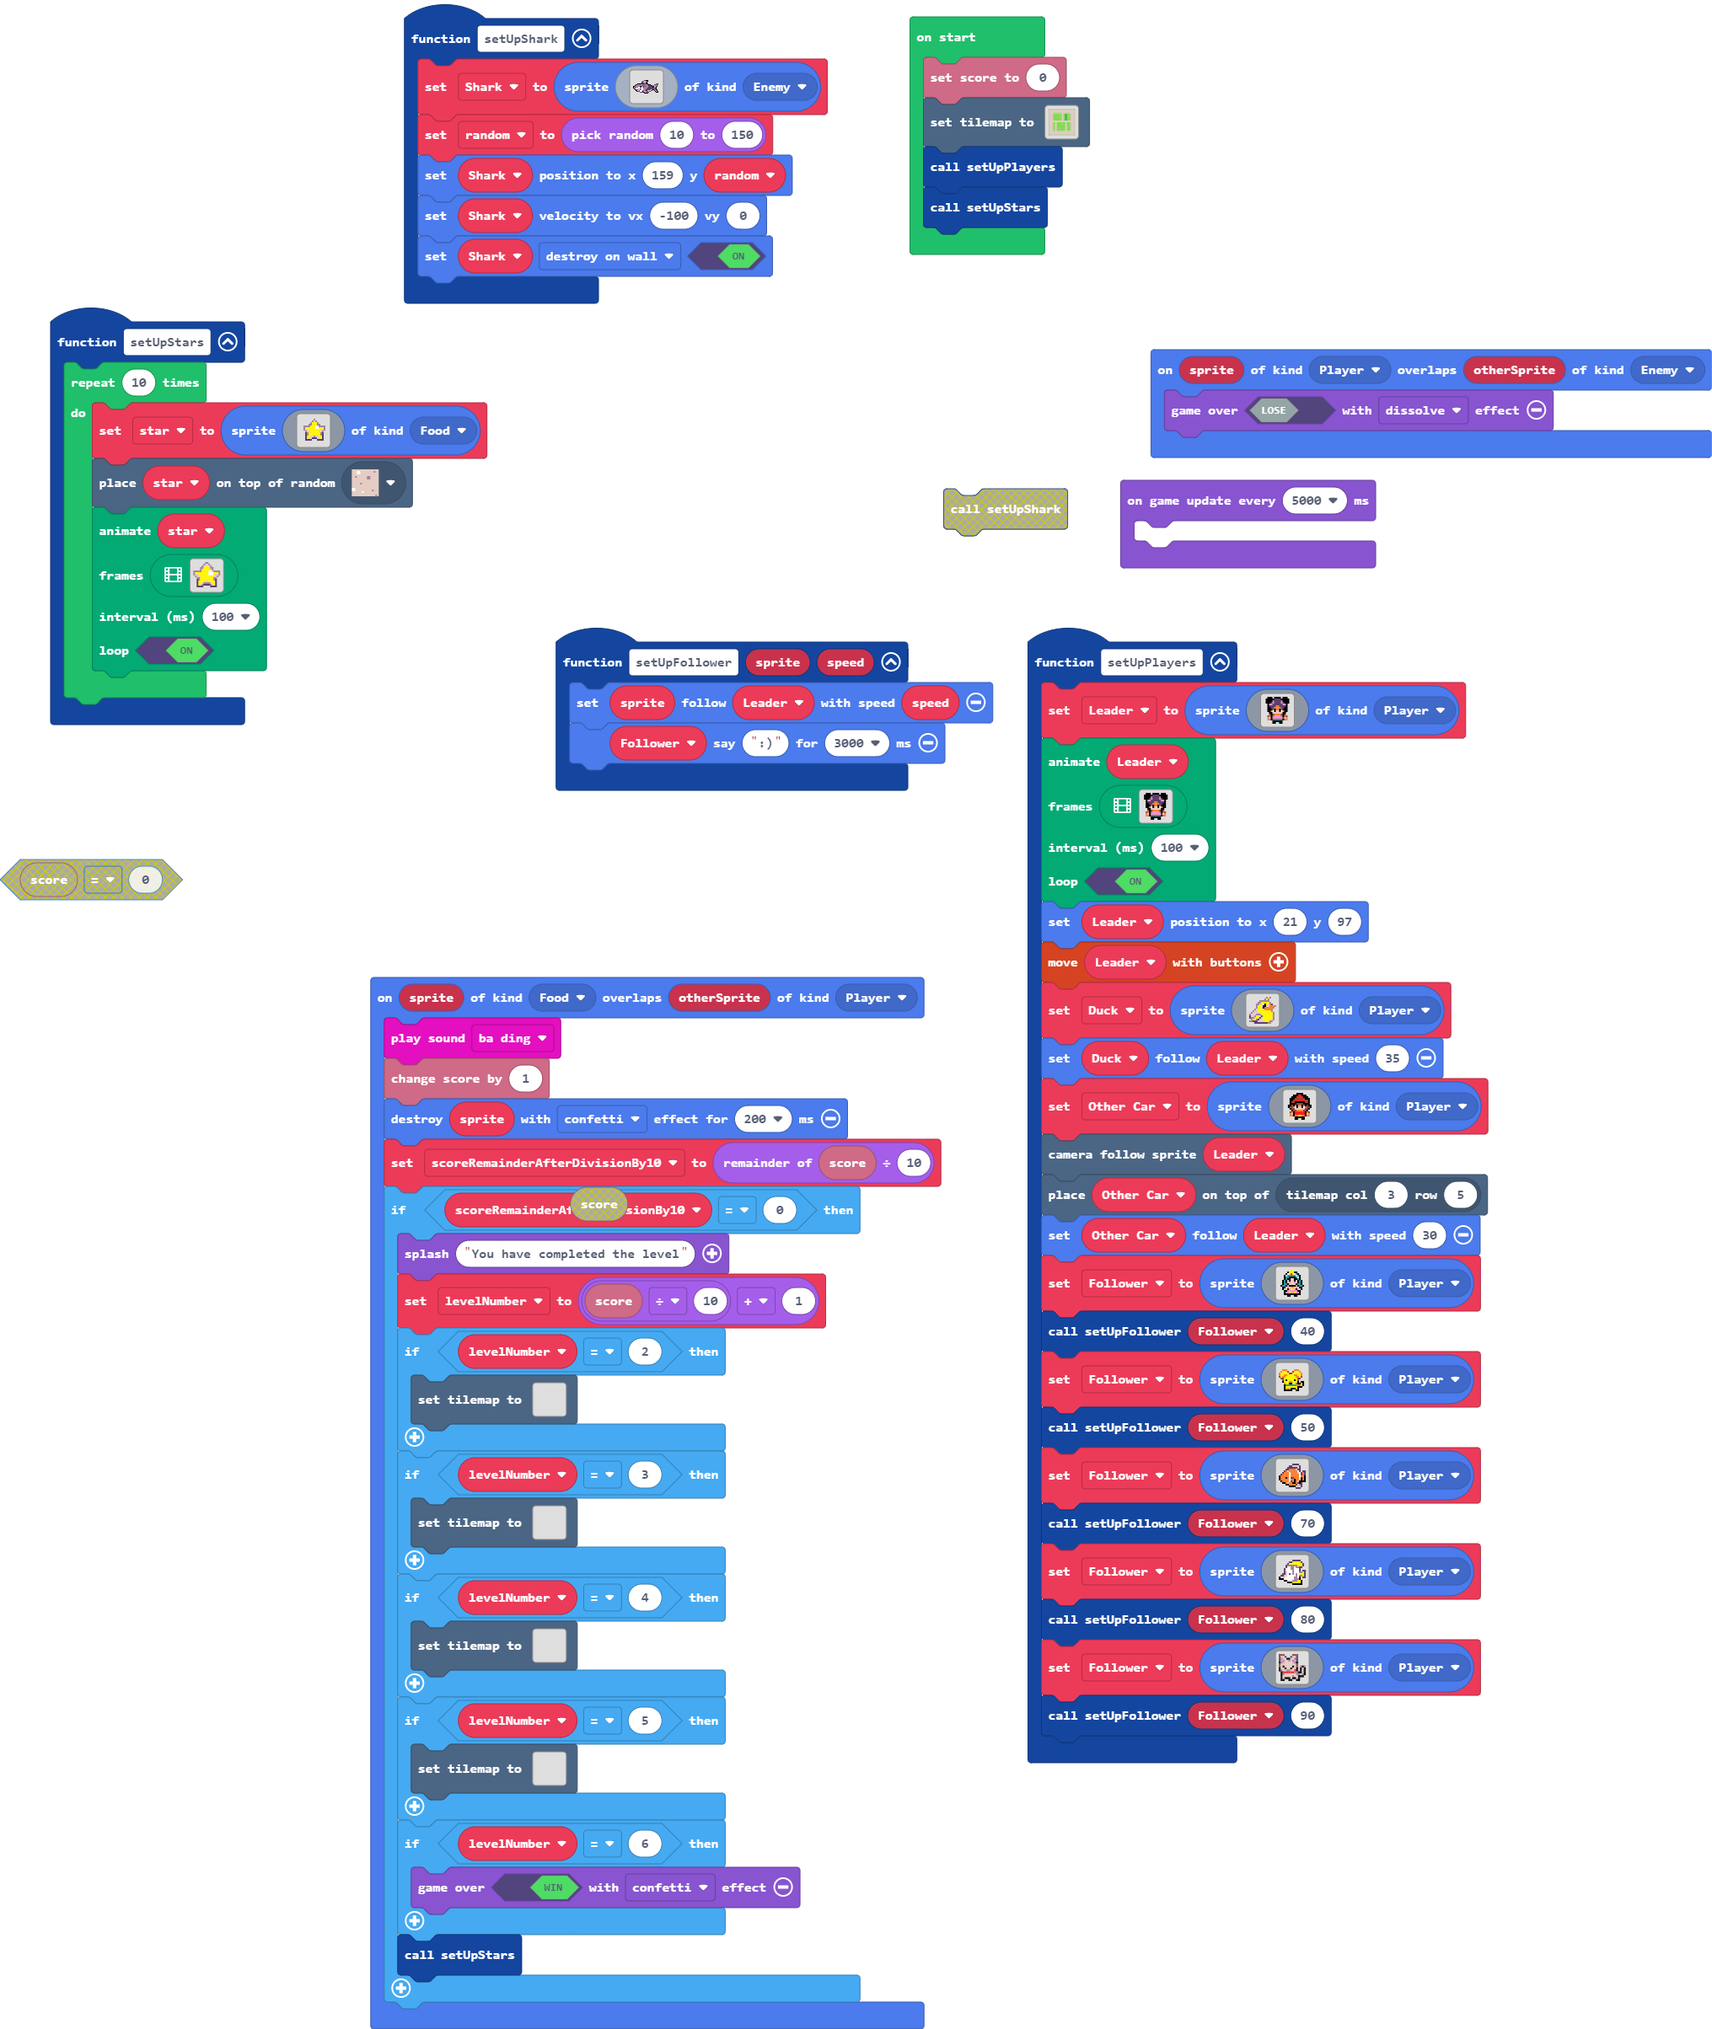
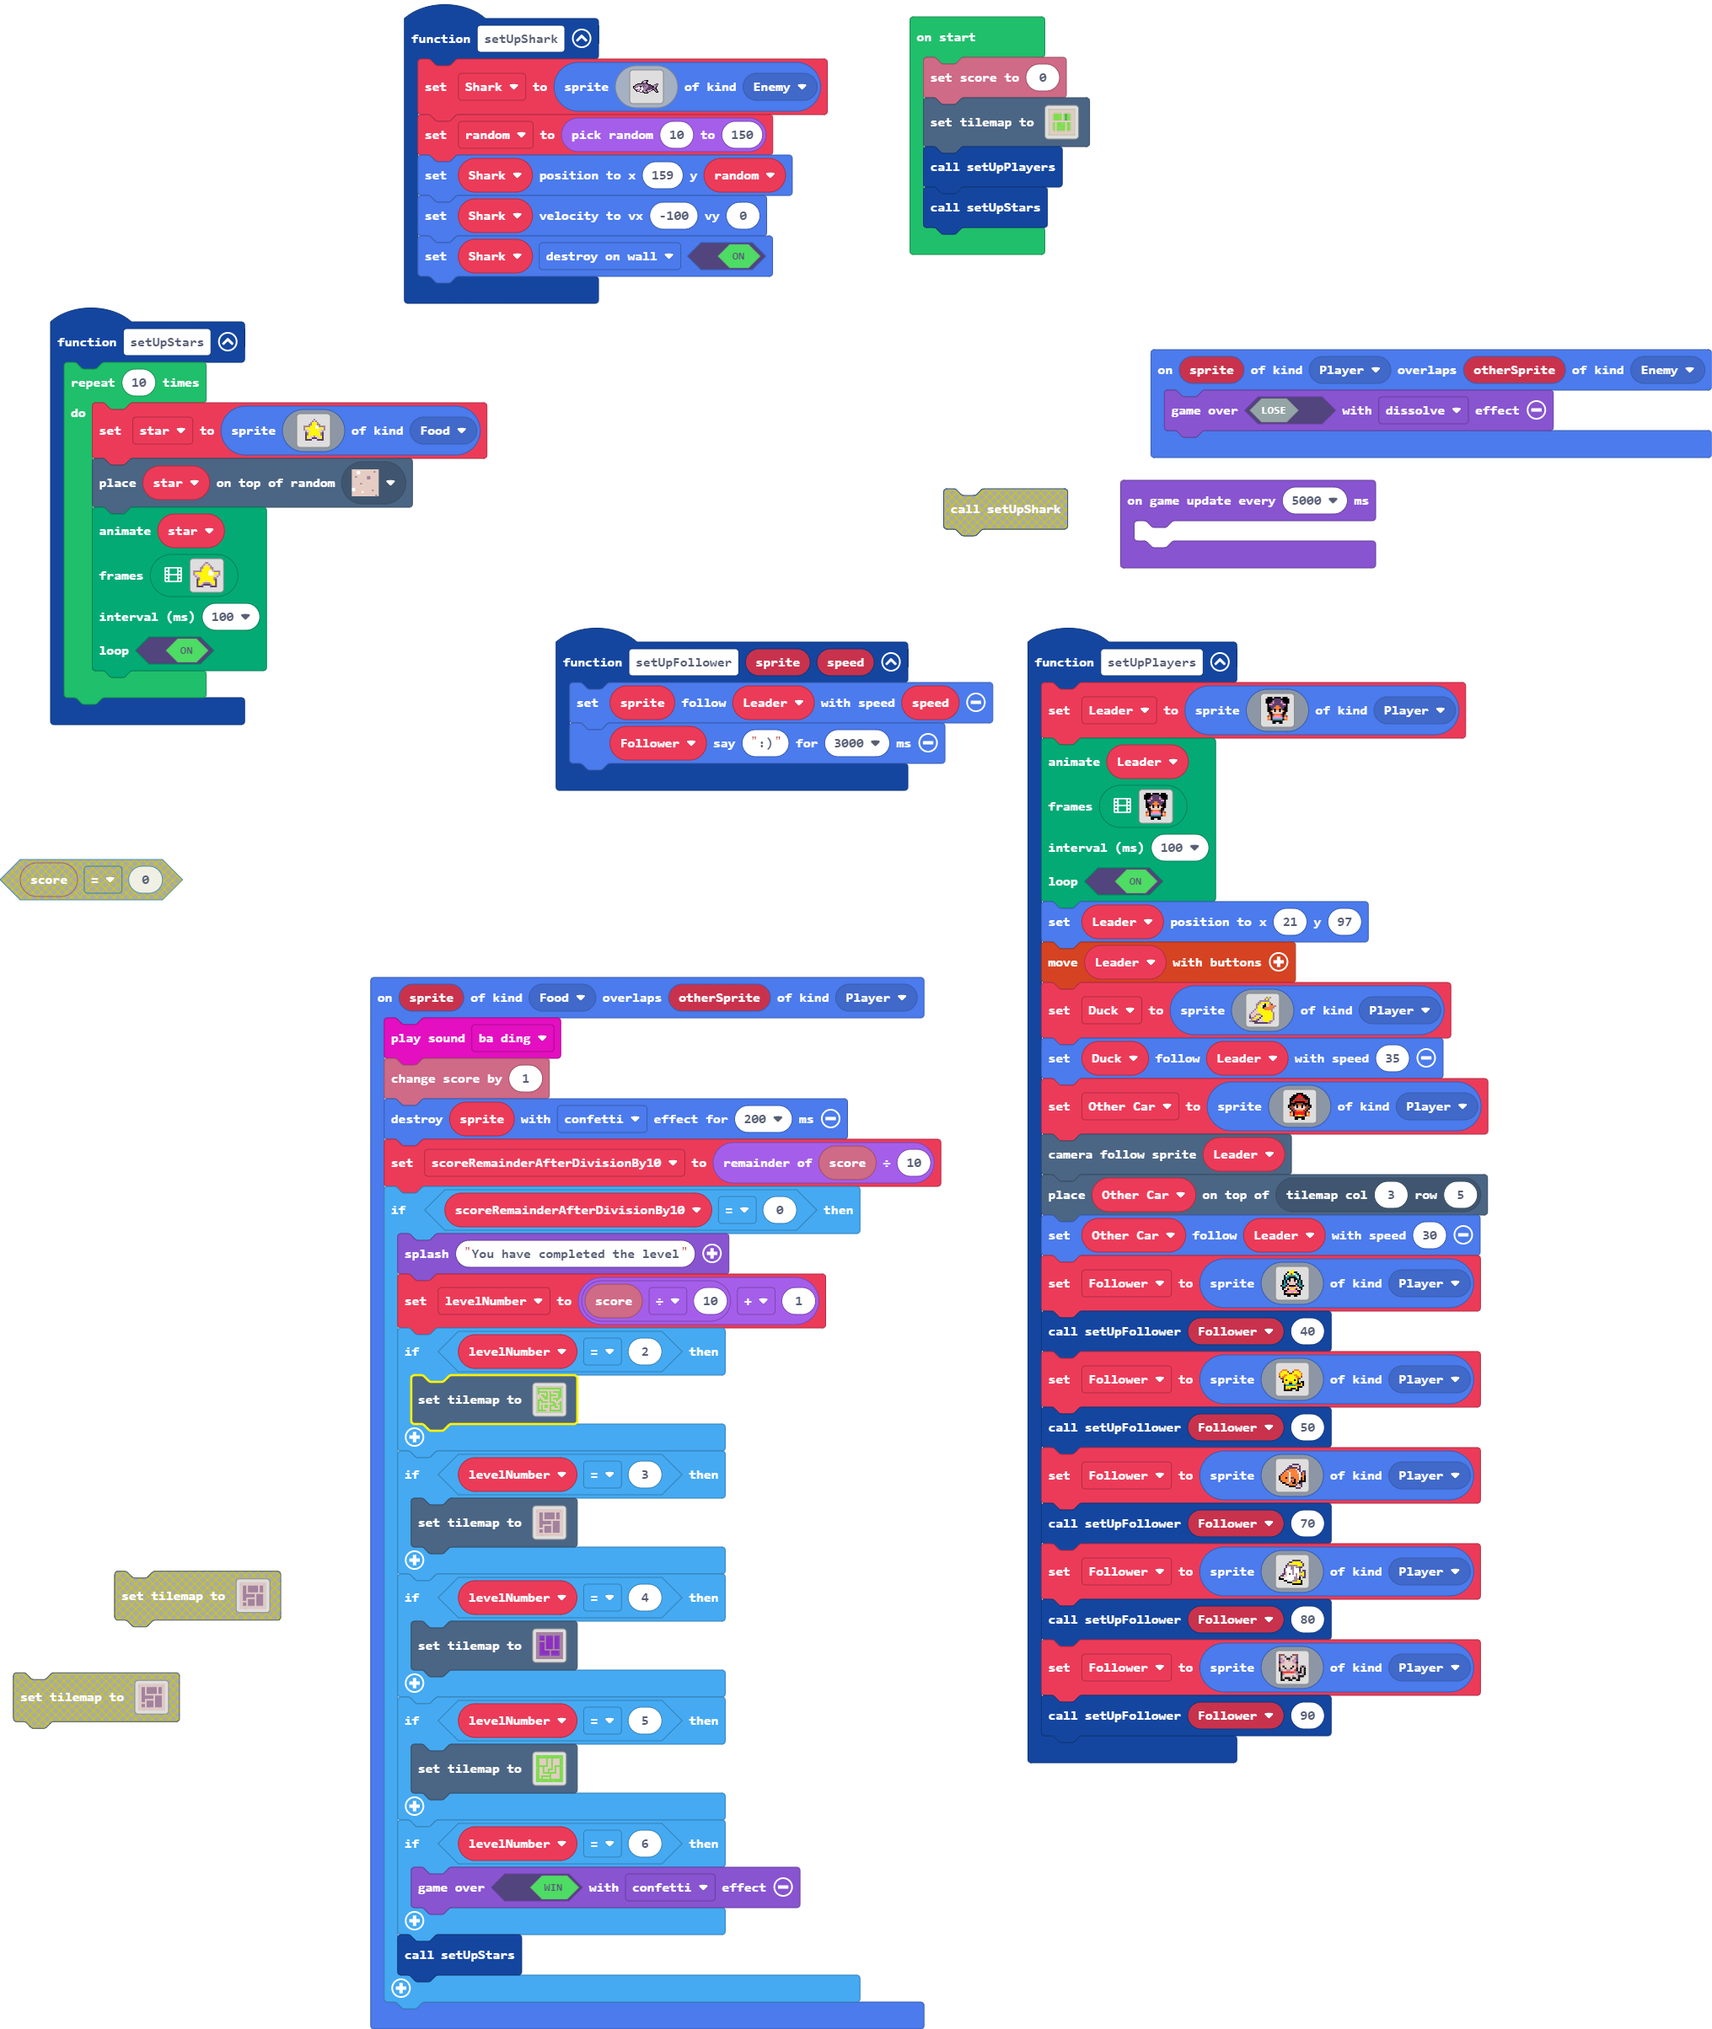
Update main.blocks, main.ts, tilemap.g.jres, tilemap.g.ts

diff --git a/tilemap.g.ts b/tilemap.g.ts
@@ -216,25 +216,6 @@ namespace myTiles {
 . . . . . . . . . . . . . . . . 
 . . . . . . . . . . . . . . . . 
 `, [myTiles.transparency16], TileScale.Sixteen);
-            case "level8":
[1 lines of base64/hex data omitted]
-. . . . . . . . . . . . . . . . 
-. 2 . 2 2 2 2 . 2 2 2 . 2 . 2 . 
-. 2 . 2 2 2 2 . 2 2 2 . 2 . 2 . 
-. 2 . 2 2 2 2 . 2 2 2 . 2 . . . 
-. 2 . . . . . . 2 2 2 . 2 2 2 . 
-. 2 . 2 2 . 2 2 2 2 2 . 2 2 2 . 
-. . . 2 2 . 2 2 2 2 2 . . . . . 
-. 2 2 2 2 . 2 2 2 2 2 2 2 2 2 . 
-. 2 2 2 2 . 2 2 . 2 2 2 2 2 2 . 
-. 2 2 2 2 . . . . 2 2 2 2 2 2 . 
-. . . . . . 2 2 . 2 2 2 2 2 2 . 
-. 2 2 . 2 2 2 2 . 2 2 2 2 2 2 . 
-. 2 2 . 2 2 2 2 . 2 2 2 2 2 2 . 
-. 2 2 . 2 2 2 2 . 2 2 2 2 2 2 . 
-. 2 2 . 2 2 2 2 . 2 2 2 2 2 2 . 
-. . . . . . . . . . . . . . . . 
-`, [myTiles.transparency16,sprites.dungeon.darkGroundNorthWest0,sprites.dungeon.darkGroundWest,sprites.dungeon.darkGroundSouthWest0,sprites.dungeon.darkGroundSouth,sprites.dungeon.darkGroundSouthEast0,sprites.dungeon.darkGroundEast,sprites.dungeon.darkGroundNorthEast0,sprites.dungeon.darkGroundNorth,sprites.dungeon.darkGroundCenter,sprites.dungeon.collectibleInsignia], TileScale.Sixteen);
             case "level9":
             case "level9":return tiles.createTilemap(hex`1000100000000000000000000000000000000000000000000000000000000000000000000000000000000000000000000000000000000000000000000000000000000000000000000000000000000000000000000000000000000000000000000000000000000000000000000000000000000000000000000000000000000000000000000000000000000000000000000000000000000000000000000000000000000000000000000000000000000000000000000000000000000000000000000000000000000000000000000000000000000000000000000000000000000000000000000000000000000000000000000000000000000000000000000000000000000000`, img`
 . . . . . . . . . . . . . . . . 
@@ -330,25 +311,6 @@ namespace myTiles {
 . . . . . . . . . . . . . . . . 
 . . . . . . . . . . . . . . . . 
 `, [myTiles.transparency16], TileScale.Sixteen);
-            case "level4":
-            case "level4":return tiles.createTilemap(hex`1000100003030303030303020202020202020202020202020202020202020202020202020202010102020106010201010102020202020301020201010102030301020202020203060202010101020101010202020202030102020202020201060102020202020101020101010102010101020202020201010201030301020101010202020202010102010303010201020202020202020202020202020202010201020202020201010101010201010102010202020202010303030102010101020202020202020103030101020101010101020202020202020202020202020202020202020202020202020202020202020202020202020202020202020202020202020202`, img`
-. . . . . . . . . . . . . . . . 
-. . . . . . . . . . . . . . . . 
-. . 2 2 . . 2 2 2 . 2 2 2 . . . 
-. . . 2 . . 2 2 2 . . . 2 . . . 
-. . . 2 . . 2 2 2 . 2 2 2 . . . 
-. . . 2 . . . . . . 2 2 2 . . . 
-. . 2 2 . 2 2 2 2 . 2 2 2 . . . 
-. . 2 2 . 2 . . 2 . 2 2 2 . . . 
-. . 2 2 . 2 . . 2 . 2 . . . . . 
-. . . . . . . . . . 2 . 2 . . . 
-. . 2 2 2 2 2 . 2 2 2 . 2 . . . 
-. . 2 . . . 2 . 2 2 2 . . . . . 
-. . 2 . . 2 2 . 2 2 2 2 2 . . . 
-. . . . . . . . . . . . . . . . 
-. . . . . . . . . . . . . . . . 
-. . . . . . . . . . . . . . . . 
-`, [myTiles.transparency16,sprites.builtin.brick,sprites.castle.tileDarkGrass3,sprites.castle.tileDarkGrass1,myTiles.tile4,myTiles.tile5,sprites.builtin.forestTiles16], TileScale.Sixteen);
             case "level14":
             case "level14":return tiles.createTilemap(hex`1000100000000000000000000000000000000000000000000000000000000000000000000000000000000000000000000000000000000000000000000000000000000000000000000000000000000000000000000000000000000000000000000000000000000000000000000000000000000000000000000000000000000000000000000000000000000000000000000000000000000000000000000000000000000000000000000000000000000000000000000000000000000000000000000000000000000000000000000000000000000000000000000000000000000000000000000000000000000000000000000000000000000000000000000000000000000000`, img`
 . . . . . . . . . . . . . . . . 
@@ -389,25 +351,6 @@ namespace myTiles {
 `, [myTiles.transparency16,sprites.castle.tileGrass2,sprites.castle.tilePath1,sprites.castle.tilePath7,sprites.castle.tilePath9,sprites.castle.tilePath3,sprites.castle.tilePath2,sprites.castle.tilePath4,sprites.castle.tilePath5,sprites.castle.tilePath8,sprites.castle.tilePath6,sprites.castle.tileGrass3,sprites.castle.tileGrass1,sprites.builtin.forestTiles0], TileScale.Sixteen);
             case "level15":
             case "level15":return tiles.createTilemap(hex`1000100000000000000000000000000000000000000000000000000000000000000000000000000000000000000000000000000000000000000000000000000000000000000000000000000000000000000000000000000000000000000000000000000000000000000000000000000000000000000000000000000000000000000000000000000000000000000000000000000000000000000000000000000000000000000000000000000000000000000000000000000000000000000000000000000000000000000000000000000000000000000000000000000000000000000000000000000000000000000000000000000000000000000000000000000000000000`, img`
-. . . . . . . . . . . . . . . . 
-. . . . . . . . . . . . . . . . 
-. . . . . . . . . . . . . . . . 
-. . . . . . . . . . . . . . . . 
-. . . . . . . . . . . . . . . . 
-. . . . . . . . . . . . . . . . 
-. . . . . . . . . . . . . . . . 
-. . . . . . . . . . . . . . . . 
-. . . . . . . . . . . . . . . . 
-. . . . . . . . . . . . . . . . 
-. . . . . . . . . . . . . . . . 
-. . . . . . . . . . . . . . . . 
-. . . . . . . . . . . . . . . . 
-. . . . . . . . . . . . . . . . 
-. . . . . . . . . . . . . . . . 
-. . . . . . . . . . . . . . . . 
-`, [myTiles.transparency16], TileScale.Sixteen);
-            case "level16":
-            case "level16":return tiles.createTilemap(hex`1000100000000000000000000000000000000000000000000000000000000000000000000000000000000000000000000000000000000000000000000000000000000000000000000000000000000000000000000000000000000000000000000000000000000000000000000000000000000000000000000000000000000000000000000000000000000000000000000000000000000000000000000000000000000000000000000000000000000000000000000000000000000000000000000000000000000000000000000000000000000000000000000000000000000000000000000000000000000000000000000000000000000000000000000000000000000000`, img`
 . . . . . . . . . . . . . . . . 
 . . . . . . . . . . . . . . . . 
 . . . . . . . . . . . . . . . . 
@@ -539,6 +482,101 @@ namespace myTiles {
 . . . . . . . . . . . . . . . . 
 . . . . . . . . . . . . . . . . 
 `, [myTiles.transparency16], TileScale.Sixteen);
+            case "level4":
+            case "level4":return tiles.createTilemap(hex`1000100003030303030303020202020202020202020202020202020202020202020202020202010102020104010201010102020202020301020201010102030301020202020203040202010101020101010202020202030102020202020201040102020202020101020101010102010101020202020201010201030301020101010202020202010102010303010201020202020202020202020202020202010201020202020201010101010201010102010202020202010303030102010101020202020202020103030101020101010101020202020202020202020202020202020202020202020202020202020202020202020202020202020202020202020202020202`, img`
+. . . . . . . . . . . . . . . . 
+. . . . . . . . . . . . . . . . 
+. . 2 2 . . 2 2 2 . 2 2 2 . . . 
+. . . 2 . . 2 2 2 . . . 2 . . . 
+. . . 2 . . 2 2 2 . 2 2 2 . . . 
+. . . 2 . . . . . . 2 2 2 . . . 
+. . 2 2 . 2 2 2 2 . 2 2 2 . . . 
+. . 2 2 . 2 . . 2 . 2 2 2 . . . 
+. . 2 2 . 2 . . 2 . 2 . . . . . 
+. . . . . . . . . . 2 . 2 . . . 
+. . 2 2 2 2 2 . 2 2 2 . 2 . . . 
+. . 2 . . . 2 . 2 2 2 . . . . . 
+. . 2 . . 2 2 . 2 2 2 2 2 . . . 
+. . . . . . . . . . . . . . . . 
+. . . . . . . . . . . . . . . . 
+. . . . . . . . . . . . . . . . 
+`, [myTiles.transparency16,sprites.builtin.brick,sprites.castle.tileDarkGrass3,sprites.castle.tileDarkGrass1,sprites.builtin.forestTiles16], TileScale.Sixteen);
+            case "level16":
+            case "level16":return tiles.createTilemap(hex`1000100001010101010101010101010101010101050101010101010101020101010105010101040401040404040404010404010101010404010404040404040104040101010104040104040404040301040402010101040401040404040404010404010101010404010101010101010101010101010104040404040304010404040401010101040404040404040104040404010101010404010101010101040404040101010104040104040404010404040401010101010101040404040103040404010101010404010404040401040404040101010104040104040404010404040401010101010101010201010101010101010101010105010101010101010101010101`, img`
+. . . . . . . . . . . . . . . . 
+. . . . . . . . . . . . . . . . 
+. . 2 2 . 2 2 2 2 2 2 . 2 2 . . 
+. . 2 2 . 2 2 2 2 2 2 . 2 2 . . 
+. . 2 2 . 2 2 2 2 2 2 . 2 2 . . 
+. . 2 2 . 2 2 2 2 2 2 . 2 2 . . 
+. . 2 2 . . . . . . . . . . . . 
+. . 2 2 2 2 2 2 2 . 2 2 2 2 . . 
+. . 2 2 2 2 2 2 2 . 2 2 2 2 . . 
+. . 2 2 . . . . . . 2 2 2 2 . . 
+. . 2 2 . 2 2 2 2 . 2 2 2 2 . . 
+. . . . . 2 2 2 2 . 2 2 2 2 . . 
+. . 2 2 . 2 2 2 2 . 2 2 2 2 . . 
+. . 2 2 . 2 2 2 2 . 2 2 2 2 . . 
+. . . . . . . . . . . . . . . . 
+. . . . . . . . . . . . . . . . 
+`, [myTiles.transparency16,sprites.dungeon.floorLight2,sprites.dungeon.floorLight5,sprites.dungeon.floorDark5,sprites.dungeon.floorDark2,sprites.dungeon.floorLightMoss], TileScale.Sixteen);
+            case "level23":
+            case "level23":return tiles.createTilemap(hex`1000100003030303030303030303030303030303030303030303030303030303030303030303020202030202020203020202030303030201010301010101030101020303030302010103010101010301010203030303030303030101010103010102030303030201010301010101030101020303030302010103010101010301010203030303020101030101010103010102030303030201010301010101030101020303030302010103030303030303030303030303020101010101030101010102030303030201010101010301010101020303030302020202020203020202020203030303030303030303030303030303030303030303030303030303030303030303`, img`
+. . . . . . . . . . . . . . . . 
+. . . . . . . . . . . . . . . . 
+. . 2 2 2 . 2 2 2 2 . 2 2 2 . . 
+. . 2 2 2 . 2 2 2 2 . 2 2 2 . . 
+. . 2 2 2 . 2 2 2 2 . 2 2 2 . . 
+. . . . . . 2 2 2 2 . 2 2 2 . . 
+. . 2 2 2 . 2 2 2 2 . 2 2 2 . . 
+. . 2 2 2 . 2 2 2 2 . 2 2 2 . . 
+. . 2 2 2 . 2 2 2 2 . 2 2 2 . . 
+. . 2 2 2 . 2 2 2 2 . 2 2 2 . . 
+. . 2 2 2 . . . . . . . . . . . 
+. . 2 2 2 2 2 2 . 2 2 2 2 2 . . 
+. . 2 2 2 2 2 2 . 2 2 2 2 2 . . 
+. . 2 2 2 2 2 2 . 2 2 2 2 2 . . 
+. . . . . . . . . . . . . . . . 
+. . . . . . . . . . . . . . . . 
+`, [myTiles.transparency16,sprites.swamp.swampTile9,sprites.swamp.swampTile13,sprites.swamp.swampTile16], TileScale.Sixteen);
+            case "level24":
+            case "level24":return tiles.createTilemap(hex`1000100001010103010101010101010101010101010101010101010101010101010103010101020202020102020102020202010101010202020201020201020202020101010102020202010202010202020201010101020202020102020102020202010101010101010101020201020101010103030102020102020202010201020201010101020201020201010102010202010101010202010202010202020102020101010102020101010101010101020201010101020202020202010202020202010101010201010101010102020202020101010102010202020201020202020201010101010101010103010101010101010101010301010101010101030101010101`, img`
+. . . . . . . . . . . . . . . . 
+. . . . . . . . . . . . . . . . 
+. . 2 2 2 2 . 2 2 . 2 2 2 2 . . 
+. . 2 2 2 2 . 2 2 . 2 2 2 2 . . 
+. . 2 2 2 2 . 2 2 . 2 2 2 2 . . 
+. . 2 2 2 2 . 2 2 . 2 2 2 2 . . 
+. . . . . . . 2 2 . 2 . . . . . 
+. . 2 2 . 2 2 2 2 . 2 . 2 2 . . 
+. . 2 2 . 2 2 . . . 2 . 2 2 . . 
+. . 2 2 . 2 2 . 2 2 2 . 2 2 . . 
+. . 2 2 . . . . . . . . 2 2 . . 
+. . 2 2 2 2 2 2 . 2 2 2 2 2 . . 
+. . 2 . . . . . . 2 2 2 2 2 . . 
+. . 2 . 2 2 2 2 . 2 2 2 2 2 . . 
+. . . . . . . . . . . . . . . . 
+. . . . . . . . . . . . . . . . 
+`, [myTiles.transparency16,sprites.castle.tileGrass1,sprites.castle.tilePath5,sprites.castle.tileGrass2], TileScale.Sixteen);
+            case "level8":
[1 lines of base64/hex data omitted]
+. . . . . . . . . . . . . . . . 
+. 2 2 2 2 2 2 2 2 2 2 2 2 2 2 . 
+. 2 . . . . . . . . . . . . 2 . 
+. 2 2 2 2 2 2 . 2 . 2 2 2 2 2 . 
+. 2 . . . . 2 . 2 . . . . 2 2 . 
+. . . 2 2 . 2 . 2 2 2 2 . 2 2 . 
+. . . . 2 2 2 . 2 . . . . 2 2 . 
+. . 2 . . 2 2 . 2 . 2 2 2 2 . . 
+. 2 2 2 . . . . 2 . . . 2 . . . 
+. 2 . 2 2 2 2 . 2 2 2 . . . 2 . 
+. 2 . . . . . . . . 2 2 . 2 2 . 
+. 2 . 2 . 2 2 . 2 2 2 2 . . 2 . 
+. 2 . 2 . 2 2 . 2 . . 2 2 . 2 . 
+. 2 . 2 . . . . 2 . . . . . 2 . 
+. 2 2 2 2 2 . . 2 2 2 2 2 2 2 . 
+. . . . . . . . . . . . . . . . 
+`, [myTiles.transparency16,sprites.castle.tilePath1,sprites.castle.tilePath3,sprites.castle.tilePath7,sprites.castle.tilePath5,sprites.castle.tilePath9,sprites.castle.tilePath4,sprites.castle.tilePath2,sprites.castle.tilePath6,sprites.castle.tilePath8,sprites.castle.tileGrass2,sprites.castle.tileGrass3,sprites.castle.tileGrass1], TileScale.Sixteen);
         }
         return null;
     })

diff --git a/main.ts b/main.ts
@@ -104,16 +104,16 @@ sprites.onOverlap(SpriteKind.Food, SpriteKind.Player, function (sprite, otherSpr
         game.splash("You have completed the level")
         levelNumber = info.score() / 10 + 1
         if (levelNumber == 2) {
-            tiles.setTilemap(tilemap`level16`)
+            tiles.setTilemap(tilemap`level8`)
         }
         if (levelNumber == 3) {
             tiles.setTilemap(tilemap`level16`)
         }
         if (levelNumber == 4) {
-            tiles.setTilemap(tilemap`level16`)
+            tiles.setTilemap(tilemap`level23`)
         }
         if (levelNumber == 5) {
-            tiles.setTilemap(tilemap`level16`)
+            tiles.setTilemap(tilemap`level24`)
         }
         if (levelNumber == 6) {
             game.over(true, effects.confetti)
